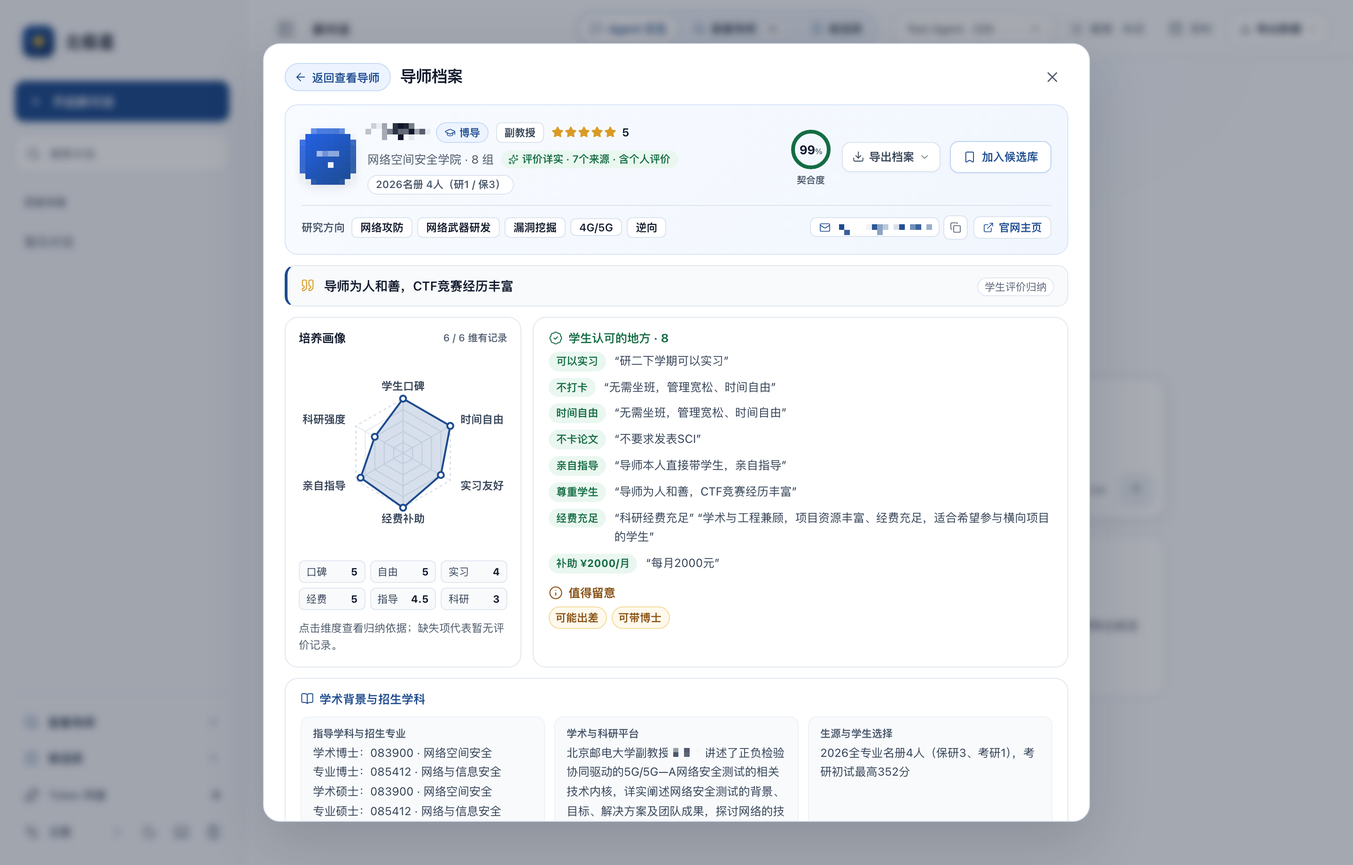
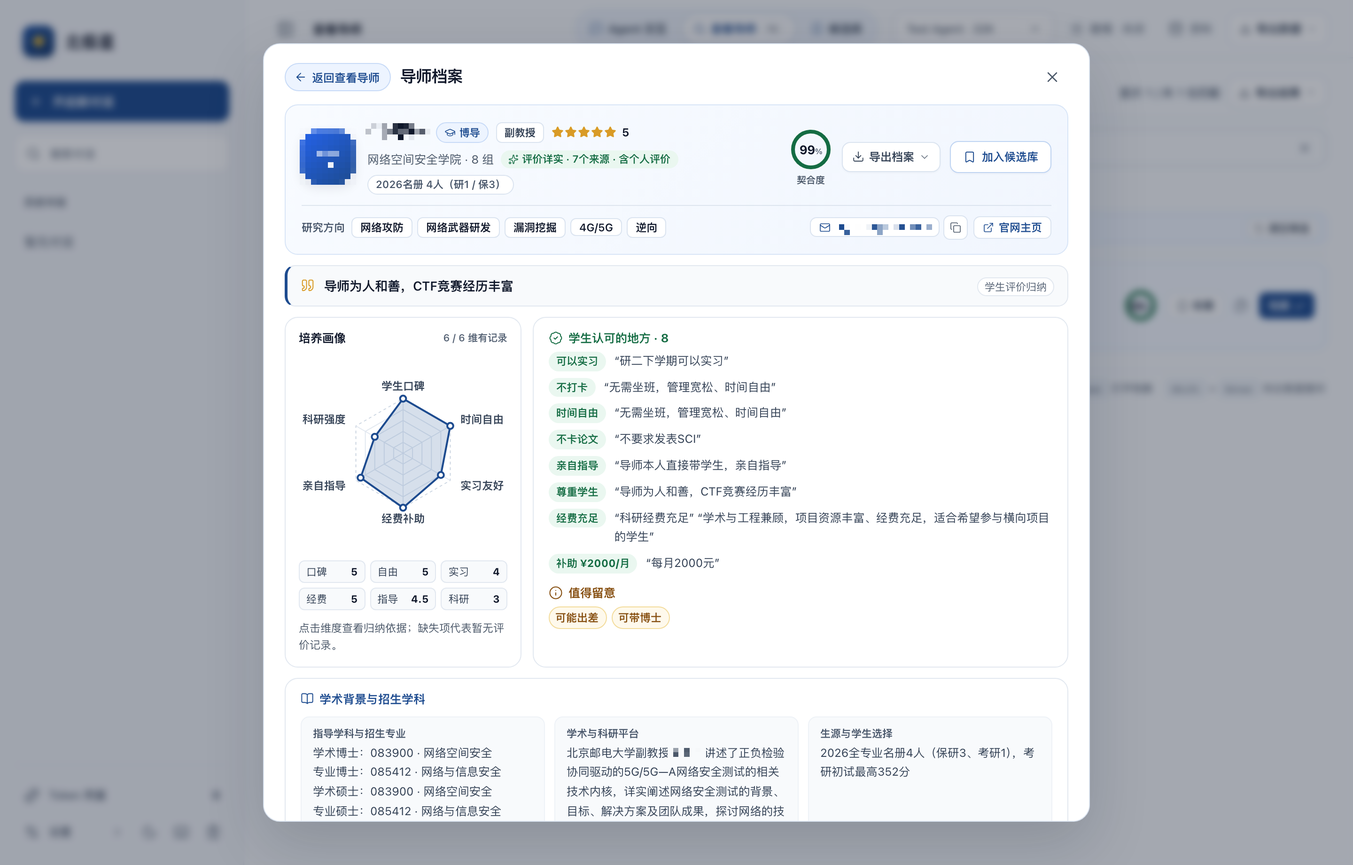
feat(ui): round 7 — 统一全局通知、移除页内重复入口与标题、候选库秒开预取、移动端筛选条边缘提示、刷新 README 截图

diff --git a/src/components/workbench.css b/src/components/workbench.css
@@ -1,5 +1,5 @@
 .sidebar-workspace{display:flex;align-items:center;gap:10px;width:100%;height:36px;padding:0 10px;border:0;border-radius:8px;background:transparent;color:var(--text);font-size:12.5px;font-weight:550;margin-bottom:2px;box-shadow:none}.sidebar-workspace svg:first-child{color:var(--accent)}.sidebar-workspace svg:last-child{margin-left:auto;color:var(--subtle)}.sidebar-workspace:hover{background:#e8eef6;color:var(--accent)}
-.workbench-body{min-height:0;overflow:auto;overscroll-behavior:contain;scrollbar-gutter:stable;padding-right:5px;padding-bottom:8px}.workbench-body h3,.workbench-body h4,.workbench-body p{margin-top:0}.section-eyebrow{display:block;font-size:10px;letter-spacing:.8px;color:var(--muted);margin-bottom:4px}.workspace-heading{display:flex;align-items:center;justify-content:space-between;gap:12px;padding:0 0 10px}.workspace-heading h3{font-size:15px;font-weight:650;color:var(--muted);letter-spacing:-.1px;margin:0}
+.workbench-body{min-height:0;overflow:auto;overscroll-behavior:contain;scrollbar-gutter:stable;padding-right:5px;padding-bottom:8px}.workbench-body h3,.workbench-body h4,.workbench-body p{margin-top:0}.section-eyebrow{display:block;font-size:10px;letter-spacing:.8px;color:var(--muted);margin-bottom:4px}
 .workspace-error{display:flex;align-items:center;gap:9px;padding:12px 14px;margin-bottom:18px;border:1px solid #f5d0cc;background:#fef2f2;color:#991b1b;font-size:12px;line-height:1.8;border-radius:9px}.workspace-error>button:last-child{margin-left:auto}.workspace-error button{color:inherit;text-decoration:underline}.workspace-loading{font-size:13px;color:var(--muted);padding:30px 0}.workspace-back{display:flex;align-items:center;gap:7px;color:var(--muted);font-size:12px;padding:0 0 20px}.workspace-back:hover{color:var(--accent)}
 .workspace-summary{display:flex;align-items:center;gap:0;padding:19px 22px;background:#f8fafc;border:1px solid var(--line);border-radius:12px;margin-bottom:24px}.workspace-summary>div{min-width:140px;padding-right:36px}.workspace-summary>div+div{padding-left:30px;border-left:1px solid var(--line)}.workspace-summary>div>span{display:block;font-size:11px;color:var(--muted);margin-bottom:6px}.workspace-summary strong{display:block;font-size:27px;font-weight:550;color:var(--ink);font-variant-numeric:tabular-nums}.workspace-summary strong>small{font-size:12px;font-weight:400;color:var(--muted)}.workspace-summary>button{margin-left:auto;flex-shrink:0}
 .workspace-library-layout{display:grid;grid-template-columns:165px minmax(0,1fr);gap:24px}.workspace-lists{padding-right:15px;border-right:1px solid var(--line)}.workspace-lists>button,.workspace-list-line>button:first-child{display:flex;align-items:center;gap:7px;width:100%;text-align:left;font-size:12px;padding:11px 9px;border-radius:7px;min-width:0;color:var(--muted);line-height:1.6}.workspace-lists>button.selected,.workspace-list-line>button.selected{background:var(--accent-soft);color:var(--accent);font-weight:600}.workspace-lists button>span{margin-left:auto;font-size:10px;opacity:.8}.workspace-lists .new-list-button{margin-top:10px;color:var(--accent);font-size:11px}.workspace-list-line{display:flex;align-items:center;gap:1px;margin-top:3px}.workspace-list-line>button:first-child{flex:1;overflow:hidden;overflow-wrap:anywhere}.list-delete{padding:4px;color:var(--subtle);opacity:0}.workspace-list-line:hover .list-delete,.list-delete:focus-visible{opacity:1}.workspace-library-main{min-width:0}
@@ -9,7 +9,6 @@
 .workspace-analytics{display:grid;grid-template-columns:minmax(0,.8fr) minmax(0,1.2fr);gap:16px;margin-top:30px}.workspace-chart{padding:20px;border:1px solid var(--line);border-radius:11px;min-width:0;background:#fff}.workspace-chart>header{display:flex;align-items:baseline;justify-content:space-between;gap:8px;margin-bottom:19px;flex-wrap:wrap}.workspace-chart h4{font-size:13px;font-weight:600;margin:0}.workspace-chart small{font-size:10px;color:var(--muted)}.workspace-chart .chart-plot{margin:0}.workspace-chart .chart-legend{margin:-6px 0 12px;padding:0}.workspace-chart-empty{font-size:12px;color:var(--muted);line-height:1.8}.college-bar{display:grid;grid-template-columns:124px minmax(0,1fr) 28px;gap:10px;align-items:center;width:100%;font-size:11px;padding:10px 6px;border-radius:6px;text-align:left}.college-bar>span{color:var(--muted);line-height:1.5;overflow:hidden;text-overflow:ellipsis;white-space:nowrap}.college-bar>i{height:7px;background:#eef2f7;border-radius:5px}.college-bar b{display:block;min-width:3px;height:7px;background:#6486b3;border-radius:5px}.college-bar strong{font-size:12px;text-align:right;font-weight:550}.college-bar:hover,.college-bar.selected{background:var(--accent-soft)}.college-bar.selected b{background:var(--accent)}
 .workspace-name-form{display:flex;align-items:center;gap:9px;background:var(--soft);padding:15px;border:1px solid var(--line);border-radius:9px;margin-bottom:20px}.workspace-name-form label{font-size:12px;white-space:nowrap}.workspace-name-form input{border:1px solid var(--line-strong,#cbd5e1);border-radius:6px;padding:9px 10px;font-size:12px;background:#fff;flex:1;min-width:80px}.workspace-name-form button{font-size:12px;min-height:35px;padding:7px 13px}
 .detail-heading{display:flex;justify-content:space-between;align-items:center;gap:20px;margin-bottom:25px}.detail-heading h3{font-size:28px;margin:0;font-weight:600}.detail-heading>div:last-child{display:flex;gap:8px}.detail-heading button{font-size:12px;gap:6px}.detail-layout{display:grid;grid-template-columns:minmax(0,1fr) 285px;grid-template-areas:'facts notes';gap:30px}.detail-facts{grid-area:facts;min-width:0;display:grid;grid-template-columns:repeat(2,minmax(0,1fr));gap:17px}.detail-facts>section{padding:18px;border:1px solid var(--line);border-radius:9px;min-width:0;background:#fff}.detail-facts>section:has(p:not(:empty)){min-width:0}.detail-facts h4,.detail-notes h4{font-size:12px;color:var(--accent);font-weight:600;margin:0 0 12px}.detail-facts p{white-space:pre-line;overflow-wrap:anywhere;font-size:12px;line-height:1.95;margin:0}.detail-facts>small{font-size:11px;color:var(--muted)}.detail-sources{display:grid;gap:9px;font-size:11px;line-height:1.7}.detail-sources a{display:flex;gap:6px;align-items:center;color:var(--accent);text-decoration:none}.detail-sources span{color:var(--muted)}.detail-notes{grid-area:notes;align-self:start;position:sticky;top:58px;background:#f8fafc;border:1px solid var(--line);border-radius:10px;padding:19px}.detail-notes>label{display:block;font-size:11px;color:var(--muted);margin:16px 0 8px}.detail-notes select,.detail-notes textarea{width:100%;font-size:12px;border:1px solid var(--line-strong,#cbd5e1);border-radius:6px;padding:9px;background:#fff;color:var(--ink)}.detail-notes textarea{min-height:150px;resize:vertical;line-height:1.8}.detail-notes button{margin-top:12px;width:100%;font-size:12px}.detail-notes p{font-size:12px;color:var(--muted);line-height:1.9}
-.workspace-toast{position:absolute;display:flex;align-items:center;gap:9px;top:14px;bottom:auto;left:50%;transform:translateX(-50%);z-index:25;background:#ffffff;color:var(--ink);border:1px solid #cbd5e1;box-shadow:0 12px 32px rgba(15,23,42,.14);border-radius:10px;padding:9px 14px;font-size:12px;max-width:calc(100% - 140px);white-space:normal;line-height:1.6}.workspace-toast button{display:flex;color:var(--accent);padding:2px}.workspace-toast>svg,.workspace-toast>button{flex-shrink:0}.workspace-toast.floating{position:fixed;top:72px;bottom:auto;z-index:120}
 .selection-to-workspace{font-size:11px;color:var(--accent);padding:5px 7px;border:1px solid var(--accent-border,#c7daf7);border-radius:5px}.recommendations .table-empty>button{color:var(--accent);margin-left:7px;text-decoration:underline}
 .workspace-chart header select{font-size:10px;border:1px solid var(--line);border-radius:5px;padding:5px 6px;background:#fff}.workspace-analytics:has(>.workspace-chart:only-child){grid-template-columns:1fr}
 .answer-files{display:grid;gap:10px;margin:20px 0;max-width:620px}.answer-files>button{display:flex;align-items:center;gap:13px;padding:17px;border:1px solid var(--line);border-radius:11px;background:white;text-align:left}.answer-files>button:hover{border-color:#b4c8e4;background:#f8fafc}.answer-file-icon{display:flex;padding:11px;border-radius:8px;background:var(--accent-soft);color:var(--accent)}.answer-files strong{display:block;font-size:13px;font-weight:550;overflow-wrap:anywhere}.answer-files small{display:block;font-size:11px;margin-top:5px;color:var(--muted)}.answer-files>button>svg:last-child{margin-left:auto;color:var(--accent);flex-shrink:0}
@@ -18,5 +17,4 @@
 .detail-fact-skeleton{min-height:92px}
 .detail-note-actions{display:flex;align-items:center;gap:10px;flex-wrap:wrap}.detail-note-actions small{font-size:11px;color:var(--muted)}.remove-from-list{text-align:left;color:var(--muted);font-size:11px;padding:10px 0 0}.remove-from-list:hover{color:var(--accent)}
 @media(max-width:1180px){.mentor-tile-grid{grid-template-columns:repeat(2,minmax(0,1fr))}.workspace-library-layout{grid-template-columns:145px minmax(0,1fr);gap:17px}.workspace-summary>div{min-width:120px;padding-right:20px}.workspace-summary>div+div{padding-left:20px}.workspace-analytics{grid-template-columns:1fr}.workspace-chart .chart-plot{max-width:100%}}
-@media(max-width:760px){.workbench-body{padding-right:0;scrollbar-gutter:auto}.workspace-heading{padding:4px 0 10px;gap:10px}.workspace-heading h3{font-size:15px;line-height:1.4}.workspace-summary{padding:15px 13px;gap:0;flex-wrap:wrap}.workspace-summary>div{min-width:0;flex:1;padding-right:10px}.workspace-summary>div+div{padding-left:14px}.workspace-summary>.workspace-summary-actions{flex:1 1 100%;width:100%;margin:14px 0 0;padding:12px 0 0;border-left:0;border-top:1px solid var(--line);justify-content:stretch}.workspace-summary-actions>button{flex:1;justify-content:center;white-space:nowrap}.workspace-summary strong{font-size:23px}.workspace-summary>div>span{font-size:10px}.workspace-summary>button{width:100%;margin-top:16px;font-size:12px;min-height:36px}.workspace-library-layout{grid-template-columns:1fr;gap:15px}.workspace-lists{display:flex;gap:5px;overflow-x:auto;border:0;padding:0 0 8px}.workspace-lists>button,.workspace-list-line>button:first-child{font-size:11px;white-space:nowrap;padding:8px 10px;width:auto}.workspace-list-line{margin-top:0;flex-shrink:0}.workspace-lists>button{flex-shrink:0}.workspace-lists .new-list-button{margin:0}.list-delete{opacity:1}.workspace-toolbar{gap:7px;margin-bottom:17px}.workspace-search{flex-basis:100%;max-width:none;min-height:40px}.workspace-toolbar>select{flex:1;max-width:none;min-width:90px;font-size:10px;min-height:36px}.workspace-toolbar .view-switch{margin-left:0}.mentor-tile-grid{grid-template-columns:1fr}.mentor-tile{padding:18px}.mentor-tile-name{font-size:18px}.mentor-tile header small{font-size:11px}.mentor-directions{font-size:12px}.mentor-tile-facts>div{font-size:12px}.mentor-tile footer .text-button{font-size:12px}.mentor-tile footer{padding-top:13px}.workspace-results-heading>span{font-size:10px}.workspace-name-form{flex-wrap:wrap;padding:12px}.workspace-name-form label{font-size:11px}.workspace-name-form input{flex-basis:65%}.workspace-name-form button{flex:1}.detail-heading{align-items:flex-start;gap:14px;flex-direction:column}.detail-heading h3{font-size:26px}.detail-heading>div:last-child{width:100%;justify-content:flex-end}.detail-layout{grid-template-columns:1fr;grid-template-areas:'facts' 'notes';gap:20px}.detail-layout:has(.detail-notes textarea){grid-template-areas:'notes' 'facts'}.detail-facts{grid-template-columns:1fr;gap:12px}.detail-notes{position:static}.detail-facts p{font-size:13px}.workspace-empty{padding:40px 17px}.workspace-empty p{font-size:12px}.workspace-chart{padding:17px}.workspace-pagination{flex-wrap:wrap;font-size:10px}.workspace-pagination .secondary-button{font-size:10px}.workspace-toast{font-size:11px;padding:8px 11px;top:12px;bottom:auto;max-width:calc(100% - 96px)}.comparison-selection>div{flex-wrap:wrap;justify-content:flex-end;gap:6px}.selection-to-workspace{font-size:10px;padding:5px}.analysis-rule{grid-template-columns:minmax(75px,1fr) 90px minmax(60px,1fr) 20px;gap:5px}.analysis-rule select,.analysis-rule input{font-size:10px;padding:8px 5px}.analysis-rule-actions{gap:7px}.workspace-export-data{font-size:10px}}
-@media(max-width:560px){.workspace-heading h3{font-size:14.5px}}
+@media(max-width:760px){.workbench-body{padding-right:0;scrollbar-gutter:auto}.workspace-summary{padding:15px 13px;gap:0;flex-wrap:wrap}.workspace-summary>div{min-width:0;flex:1;padding-right:10px}.workspace-summary>div+div{padding-left:14px}.workspace-summary>.workspace-summary-actions{flex:1 1 100%;width:100%;margin:14px 0 0;padding:12px 0 0;border-left:0;border-top:1px solid var(--line);justify-content:stretch}.workspace-summary-actions>button{flex:1;justify-content:center;white-space:nowrap}.workspace-summary strong{font-size:23px}.workspace-summary>div>span{font-size:10px}.workspace-summary>button{width:100%;margin-top:16px;font-size:12px;min-height:36px}.workspace-library-layout{grid-template-columns:1fr;gap:15px}.workspace-lists{display:flex;gap:5px;overflow-x:auto;border:0;padding:0 0 8px}.workspace-lists>button,.workspace-list-line>button:first-child{font-size:11px;white-space:nowrap;padding:8px 10px;width:auto}.workspace-list-line{margin-top:0;flex-shrink:0}.workspace-lists>button{flex-shrink:0}.workspace-lists .new-list-button{margin:0}.list-delete{opacity:1}.workspace-toolbar{gap:7px;margin-bottom:17px}.workspace-search{flex-basis:100%;max-width:none;min-height:40px}.workspace-toolbar>select{flex:1;max-width:none;min-width:90px;font-size:10px;min-height:36px}.workspace-toolbar .view-switch{margin-left:0}.mentor-tile-grid{grid-template-columns:1fr}.mentor-tile{padding:18px}.mentor-tile-name{font-size:18px}.mentor-tile header small{font-size:11px}.mentor-directions{font-size:12px}.mentor-tile-facts>div{font-size:12px}.mentor-tile footer .text-button{font-size:12px}.mentor-tile footer{padding-top:13px}.workspace-results-heading>span{font-size:10px}.workspace-name-form{flex-wrap:wrap;padding:12px}.workspace-name-form label{font-size:11px}.workspace-name-form input{flex-basis:65%}.workspace-name-form button{flex:1}.detail-heading{align-items:flex-start;gap:14px;flex-direction:column}.detail-heading h3{font-size:26px}.detail-heading>div:last-child{width:100%;justify-content:flex-end}.detail-layout{grid-template-columns:1fr;grid-template-areas:'facts' 'notes';gap:20px}.detail-layout:has(.detail-notes textarea){grid-template-areas:'notes' 'facts'}.detail-facts{grid-template-columns:1fr;gap:12px}.detail-notes{position:static}.detail-facts p{font-size:13px}.workspace-empty{padding:40px 17px}.workspace-empty p{font-size:12px}.workspace-chart{padding:17px}.workspace-pagination{flex-wrap:wrap;font-size:10px}.workspace-pagination .secondary-button{font-size:10px}.comparison-selection>div{flex-wrap:wrap;justify-content:flex-end;gap:6px}.selection-to-workspace{font-size:10px;padding:5px}.analysis-rule{grid-template-columns:minmax(75px,1fr) 90px minmax(60px,1fr) 20px;gap:5px}.analysis-rule select,.analysis-rule input{font-size:10px;padding:8px 5px}.analysis-rule-actions{gap:7px}.workspace-export-data{font-size:10px}}

diff --git a/src/components/Workbench.jsx b/src/components/Workbench.jsx
@@ -1,5 +1,5 @@
 import React,{useCallback,useEffect,useLayoutEffect,useMemo,useRef,useState} from 'react'
-import {ArrowLeft,Bookmark,Check,ChevronRight,Download,ExternalLink,FolderPlus,LayoutGrid,Plus,Search,Star,Table2,Trash2,X} from 'lucide-react'
+import {ArrowLeft,Bookmark,ChevronRight,Download,ExternalLink,FolderPlus,LayoutGrid,Plus,Search,Star,Table2,Trash2,X} from 'lucide-react'
 import DataTable from './DataTable.jsx'
 import {FlagChips} from './MentorInsight.jsx'
 import {usePolaris} from '../insights.jsx'
@@ -67,11 +67,6 @@ function MentorDetail({person,onBack}){
     {loading?<WorkbenchDetailSkeleton/>:detail&&<div className="detail-layout"><aside className="detail-notes"><h4>我的选择记录</h4>{saved?<><label htmlFor="mentor-contact-status">联系进度</label><select id="mentor-contact-status" value={saved.status} disabled={w.pending} onChange={event=>w.mutate('/workbench/items/'+person.key,'PATCH',{status:event.target.value}).catch(swallow)}>{Object.entries(statusNames).map(([key,label])=><option value={key} key={key}>{label}</option>)}</select><label htmlFor="mentor-private-note">导师备注</label><textarea id="mentor-private-note" value={note} maxLength={2000} placeholder="记录你的方向、联系进展和需要比较的问题" onChange={event=>{const text=event.target.value;draft.current={note:text,dirty:true};sessionStorage.setItem(draftKey,text);setNote(text);setNoteStatus('editing')}} onBlur={saveNote}/><div className="detail-note-actions"><button className="primary-button" disabled={w.pending||!draft.current.dirty} onClick={saveNote}>{noteStatus==='error'?'重试保存':'保存备注'}</button><small role="status">{({saved:'已保存 · 自动保存',editing:'等待保存',saving:'保存中…',error:'尚未保存'})[noteStatus]}</small></div></>:<p>收藏这位导师后，可记录联系进度与个人备注。</p>}</aside><div className="detail-facts">{w.state.fieldOptions.filter(field=>detail[field.key]!=null&&detail[field.key]!=='').map(field=>{const value=['doctoral_evidence','profile_evidence','admissions'].includes(field.key)?formatDisciplineText(display(detail[field.key],field)):field.key==='academic_summary'?formatAcademicSummary(detail[field.key],person.professional_title)||display(detail[field.key],field):display(detail[field.key],field);return <section key={field.key}><h4>{field.label}</h4><p>{value}</p></section>})}{person.student_count!=null&&<small>{w.state.rosterYear}年名册 · 全专业</small>}<section><h4>资料来源</h4><div className="detail-sources">{detail.sources.map(source=>source.url?<a href={source.url} target="_blank" rel="noopener noreferrer" key={source.id}>{source.title}<ExternalLink size={12}/></a>:<span key={source.id}>{source.title}{source.year?' · '+source.year:''}</span>)}</div></section></div></div>}
   </div>
 }
-function WorkspaceNotice({floating=false}){
-  const w=useWorkspace(),text=w.message||(!w.view?w.error:'')
-  if(!text)return null
-  return <div className={'workspace-toast'+(floating?' floating':'')} role="status"><Check size={14}/>{text}{w.message==='已移出候选'&&w.state?.removedKey&&<button onClick={()=>w.mutate('/workbench/items/'+w.state.removedKey+'/restore','POST',{}).then(()=>w.setMessage('已恢复候选及备注')).catch(swallow)}>撤销</button>}<button aria-label="关闭操作提示" onClick={()=>{w.setMessage('');w.setError('')}}><X size={13}/></button></div>
-}
 export default function WorkspaceLayer({active=true,onAsk,onOpenMentors,busy=false}){
   const w=useWorkspace(),[list,setList]=useState('all'),[query,setQuery]=useState(''),[college,setCollege]=useState(''),[status,setStatus]=useState(''),[sort,setSort]=useState('recent'),[discover,setDiscover]=useState(false),[directory,setDirectory]=useState({rows:[],total:0}),[finding,setFinding]=useState(false),[displayMode,setDisplayMode]=useState('cards'),[detail,setDetail]=useState(null),[name,setName]=useState(''),[naming,setNaming]=useState(null),[dirPage,setDirPage]=useState(0),[visibleCount,setVisibleCount]=useState(24),[analysis,setAnalysis]=useState('ratings'),[rules,setRules]=useState([]),[matching,setMatching]=useState(null),[linking,setLinking]=useState(false),[chartCollege,setChartCollege]=useState('')
   const body=useRef(null),positions=useRef(new Map()),scrollKey='library:'+(detail?.key||'')
@@ -103,7 +98,6 @@ export default function WorkspaceLayer({active=true,onAsk,onOpenMentors,busy=fal
   const distinctSavedColleges=new Set(all.flatMap(row=>(row.college||'').split(/[、,，]+/).map(s=>s.replace(/[（(].*$/,'').trim()).filter(Boolean))).size
   return <section className="app-page-panel library-page" aria-labelledby="library-page-title"><header className="page-header"><h2 id="library-page-title">候选库</h2></header><div className="workbench-body" ref={body} onScroll={event=>positions.current.set(scrollKey,event.currentTarget.scrollTop)}>
     {<>
-      <div className="workspace-heading"><h3>我的导师候选</h3></div>
       {w.error&&<div className="workspace-error" role="alert">{w.error}<button aria-label="关闭工作台提示" onClick={()=>w.setError('')}><X size={14}/></button></div>}
       {naming&&<form className="workspace-name-form" onSubmit={event=>{event.preventDefault();saveName()}}><label htmlFor="workspace-object-name">{naming==='lists'?'清单名称':'视图名称'}</label><input id="workspace-object-name" autoFocus value={name} onChange={event=>setName(event.target.value)} placeholder="输入名称" maxLength={80}/><button className="primary-button" disabled={!name.trim()||w.pending}>保存</button><button type="button" className="secondary-button" onClick={()=>setNaming(null)}>取消</button></form>}
       {(detail?<MentorDetail person={detail} onBack={()=>setDetail(null)}/>:<>
@@ -118,6 +112,5 @@ export default function WorkspaceLayer({active=true,onAsk,onOpenMentors,busy=fal
         </div></div>
       </>)}
     </>}
-    <WorkspaceNotice/>
   </div></section>
 }

diff --git a/src/workspace.jsx b/src/workspace.jsx
@@ -6,9 +6,8 @@ const Context=createContext(null)
 export const useWorkspace=()=>useContext(Context)
 export function WorkspaceProvider({children}){
   const toast=useToast()
-  const [state,setState]=useState(null),[pending,setPending]=useState(0),[error,setError]=useState(''),[view,setView]=useState(null),[message,setMessageState]=useState('')
-  const queue=useRef(Promise.resolve()),current=useRef(null),mutationEpoch=useRef(0),activeMutations=useRef(0),needsRefresh=useRef(false),viewRef=useRef(view)
-  viewRef.current=view
+  const [state,setState]=useState(null),[pending,setPending]=useState(0),[error,setError]=useState(''),[view,setView]=useState(null)
+  const queue=useRef(Promise.resolve()),current=useRef(null),mutationEpoch=useRef(0),activeMutations=useRef(0),needsRefresh=useRef(false)
   const accept=useCallback(next=>{current.current=next;setState(next)},[])
   const refresh=useCallback(()=>{
     if(activeMutations.current){needsRefresh.current=true;return Promise.resolve()}
@@ -16,14 +15,12 @@ export function WorkspaceProvider({children}){
     return api('/workbench').then(next=>{if(epoch===mutationEpoch.current&&!activeMutations.current)accept(next);else needsRefresh.current=true}).catch(e=>setError(e.message))
   },[accept])
   useEffect(()=>{refresh()},[refresh])
-  useEffect(()=>{if(!message)return;const timer=setTimeout(()=>setMessageState(''),3000);return()=>clearTimeout(timer)},[message])
   const setMessage=useCallback(text=>{
-    if(!text){setMessageState('');return}
-    if(viewRef.current)setMessageState(text)
-    else toast.success(text)
+    if(!text)return
+    toast.success(text)
   },[toast])
-  const open=useCallback((next='library')=>{setError('');setMessageState('');setView(next)},[])
-  const fail=useCallback(e=>{if(viewRef.current)setError(e.message);else toast.error(e.message)},[toast])
+  const open=useCallback((next='library')=>{setError('');setView(next)},[])
+  const fail=useCallback(e=>{toast.error(e.message)},[toast])
   const mutate=useCallback((path,method='POST',body)=>{
     mutationEpoch.current++;activeMutations.current++
     setPending(value=>value+1)
@@ -39,8 +36,7 @@ export function WorkspaceProvider({children}){
     removed=Boolean(saved)
     return saved?{path:'/workbench/items/'+saved.key,method:'DELETE'}:{path:'/workbench/items',body:{mentors:[person]}}
   }).then(next=>{
-    if(viewRef.current){setMessageState(removed?'已移出候选':'已收藏'+(person.name||person.mentor_name))}
-    else if(removed&&next?.removedKey){
+    if(removed&&next?.removedKey){
       toast.info('已移出候选',{actionLabel:'撤销',durationMs:6000,onAction:()=>mutate('/workbench/items/'+next.removedKey+'/restore','POST',{}).then(()=>toast.success('已恢复候选及备注')).catch(()=>{})})
     }else{
       toast.success(removed?'已移出候选':'已收藏'+(person.name||person.mentor_name))
@@ -59,6 +55,6 @@ export function WorkspaceProvider({children}){
       const blob=await response.blob();downloadFile((scope==='library'?'导师候选库':snapshot?current.current?.snapshots.find(item=>item.id===snapshot)?.name||'导师对比报告':'导师对比报告').replace(/[\\/:*?"<>|]/g,'_')+'.'+format,blob,response.headers.get('content-type')||blob.type);setMessage('报告已下载')
     }catch(e){fail(e)}
   },[fail,setMessage])
-  const value={state,pending:Boolean(pending),error,message,view,open,close:()=>{setMessageState('');setView(null)},setView,setError,setMessage,refresh,mutate,saveMentor,addCompare,exportReport,fail}
+  const value={state,pending:Boolean(pending),error,view,open,close:()=>setView(null),setView,setError,setMessage,refresh,mutate,saveMentor,addCompare,exportReport,fail}
   return <Context.Provider value={value}>{children}</Context.Provider>
 }

diff --git a/src/App.jsx b/src/App.jsx
@@ -58,7 +58,8 @@ const Trash=dialogsChunk.pick('Trash')
 const Usage=dialogsChunk.pick('Usage')
 const RenameConversation=dialogsChunk.pick('RenameConversation')
 const VaultUnlockDialog=dialogsChunk.pick('VaultUnlockDialog')
-const WorkspaceLayer=lazy(()=>import('./components/Workbench.jsx'))
+const loadWorkbench=()=>import('./components/Workbench.jsx')
+const WorkspaceLayer=lazy(loadWorkbench)
 
 export default function App() {
   const workspace=useWorkspace(),polaris=usePolaris(),toast=useToast()
@@ -137,6 +138,7 @@ export default function App() {
       loadMessage().catch(() => {})
       loadDialogs().catch(() => {})
       loadQuickSearch().catch(() => {})
+      loadWorkbench().catch(() => {})
       loadInsight().catch(() => {})
     }
     if (typeof window.requestIdleCallback === 'function') {
@@ -575,7 +577,7 @@ export default function App() {
   const compareCount = workspace.state?.comparison?.length || 0
   const mentorTotalCount = Object.keys(polaris.insights || {}).length
   const openMentors = useCallback(() => { loadQuickSearch().catch(() => {}); polaris.dismissMentorAll(); closeSidebar(); setModal(null); navigate('mentors') }, [closeSidebar, polaris, navigate])
-  const openLibrary = useCallback(() => { polaris.dismissMentorAll(); closeSidebar(); setModal(null); navigate('library') }, [closeSidebar, polaris, navigate])
+  const openLibrary = useCallback(() => { loadWorkbench().catch(() => {}); polaris.dismissMentorAll(); closeSidebar(); setModal(null); navigate('library') }, [closeSidebar, polaris, navigate])
   const focusAgent = useCallback(() => { polaris.dismissMentorAll(); closeSidebar(); setModal(null); navigate('agent'); requestAnimationFrame(() => textarea.current?.focus()) }, [closeSidebar, polaris, navigate])
   const showChatExport = page === 'agent' && !isWelcome
   useEffect(() => {
@@ -603,7 +605,7 @@ export default function App() {
       {visitedPages.has('mentors') && (
         <div className="app-page" hidden={page !== 'mentors'}>
           <Suspense fallback={<section className="app-page-panel mentors-page" aria-labelledby="mentors-page-loading"><header className="page-header"><h2 id="mentors-page-loading">查看导师</h2></header><QuickSearchSkeleton/></section>}>
-            <QuickSearch active={page === 'mentors'} focusSignal={mentorsFocus} onAsk={send} onOpenLibrary={openLibrary} busy={busy}/>
+            <QuickSearch active={page === 'mentors'} focusSignal={mentorsFocus} onAsk={send} busy={busy}/>
           </Suspense>
         </div>
       )}

diff --git a/src/components/QuickSearch.jsx b/src/components/QuickSearch.jsx
@@ -13,7 +13,7 @@ import {QuickSearchSkeleton} from './Skeleton.jsx'
 const PRIORITY_COLLEGES=['网络空间安全学院','计算机学院','人工智能学院','软件学院']
 const HOT_FILTER_IDS=['internship_ok','no_clock','no_paper','doctoral','dir_llm','dir_6g']
 
-export default function QuickSearch({active=true,focusSignal=0,onAsk,onOpenLibrary,busy=false}){
+export default function QuickSearch({active=true,focusSignal=0,onAsk,busy=false}){
   const polaris=usePolaris(),w=useWorkspace()
   const sessionInit=useMemo(()=>loadQuickSearchSessionFilters(),[])
   const init=sessionInit||{}
@@ -153,7 +153,6 @@ export default function QuickSearch({active=true,focusSignal=0,onAsk,onOpenLibra
     }
   }
 
-  const savedCount=w?.state?.items?.length||0
   const headerActions=<div className="qs-header-tools">
     <span className="quick-search-meta">{hasAnyCriteria?`显示 ${results.length} / 共 ${totalMatches} 位匹配`:`全校 ${allMentors.length} 位导师`}</span>
     <ExportMenu
@@ -172,9 +171,6 @@ export default function QuickSearch({active=true,focusSignal=0,onAsk,onOpenLibra
       onSuccess={({ filename }) => w?.setMessage?.(`已导出 ${filename}`)}
       onError={err => w?.fail?.(err)}
     />
-    {onOpenLibrary&&<button type="button" className="qs-lib-btn" onClick={()=>onOpenLibrary()}>
-      <Bookmark size={12} aria-hidden="true"/>候选库{savedCount?` (${savedCount})`:''}
-    </button>}
   </div>
 
   return <section className="app-page-panel mentors-page" aria-labelledby="mentors-page-title">

diff --git a/src/components/polaris.css b/src/components/polaris.css
@@ -333,8 +333,6 @@ body{background:var(--canvas);-webkit-font-smoothing:antialiased}
 /* ---------- Quick Search / 查看导师 (⌘K) ---------- */
 .qs-header-tools{display:flex;align-items:center;gap:8px}
 .quick-search-meta{font-size:12px;color:#475569;font-weight:500;font-variant-numeric:tabular-nums;white-space:nowrap}
-.qs-lib-btn{display:inline-flex;align-items:center;gap:5px;height:28px;padding:0 10px;border-radius:999px;background:var(--accent-soft);border:1px solid var(--accent-border);color:var(--accent);font-size:11.5px;font-weight:600;white-space:nowrap}
-.qs-lib-btn:hover{background:#dbeafe;border-color:#93b4e0}
 .qs-top-shell{display:grid;gap:8px;padding-bottom:10px;border-bottom:1px solid #e8eef5;flex-shrink:0}
 .quick-search-box{display:flex;align-items:center;gap:9px;padding:0 10px 0 13px;height:40px;border:1px solid #cbd5e1;border-radius:11px;background:#f8fafc;color:var(--muted);transition:border-color .15s,box-shadow .15s,background .15s}
 .quick-search-box:focus-within{background:#ffffff;border-color:var(--accent);box-shadow:0 0 0 3px rgba(29,75,143,.1)}

diff --git a/src/components/theme-dark.css b/src/components/theme-dark.css
@@ -359,8 +359,7 @@
 }
 
 /* ---------- Toasts, Banners, Errors & Shimmer ---------- */
-[data-theme="dark"] .notice,
-[data-theme="dark"] .workspace-toast {
+[data-theme="dark"] .notice {
   background: var(--surface);
   border-color: var(--line-strong);
   color: var(--ink);
@@ -803,10 +802,6 @@
 
 [data-theme="dark"] .quick-search-meta {
   color: var(--muted);
-}
-
-[data-theme="dark"] .qs-lib-btn:hover {
-  background: #1f3966;
 }
 
 [data-theme="dark"] .quick-search-box,
